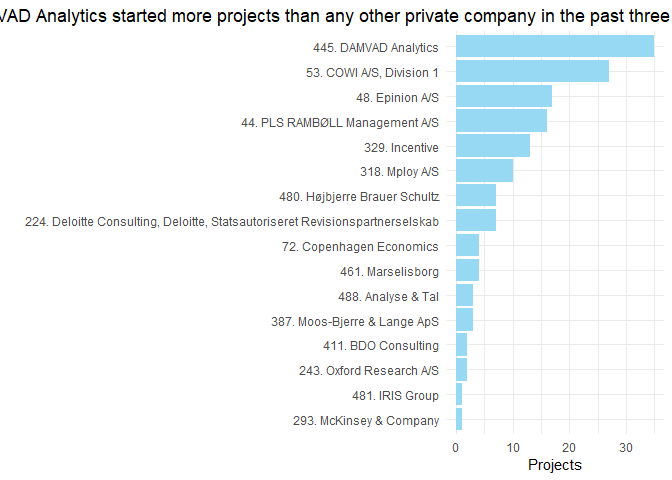
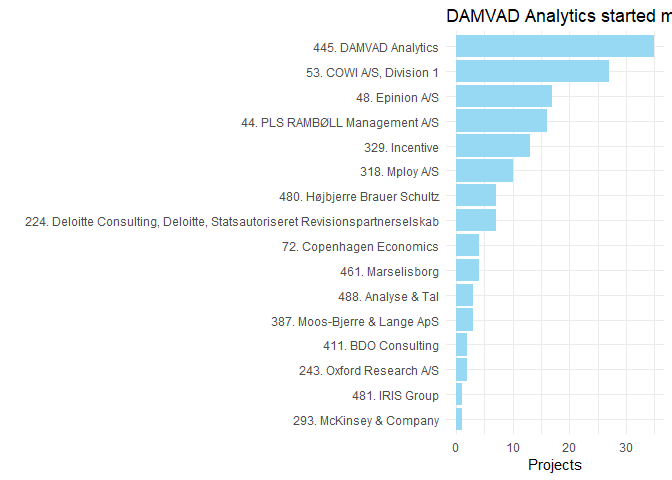
final plot fixes

Changed region(s): [[0.0, 0.0, 1.0, 0.0625]]

diff --git a/README.md b/README.md
@@ -72,11 +72,10 @@ ggplot(data = most_projects,
   labs(x="", title = "DAMVAD Analytics started more projects than any other private company in the past three years") +
   coord_flip() +
   theme_minimal() +
-  theme(plot.title = element_text(hjust = 0.9)) +
   theme(legend.position = "none")
 ```
 
-![](README_files/figure-markdown_github/unnamed-chunk-7-1.png)
+<img src="README_files/figure-markdown_github/unnamed-chunk-7-1.png" style="display: block; margin: auto;" />
 
 So DAMVAD Analytics is the private company that has used the data the most. But how has their usage varied over the years?
 
@@ -94,4 +93,4 @@ plot(ggplot(data = DAMVAD_Analytics,
   theme(legend.position = "none"))
 ```
 
-![](README_files/figure-markdown_github/unnamed-chunk-8-1.png)
+<img src="README_files/figure-markdown_github/unnamed-chunk-8-1.png" style="display: block; margin: auto;" />
